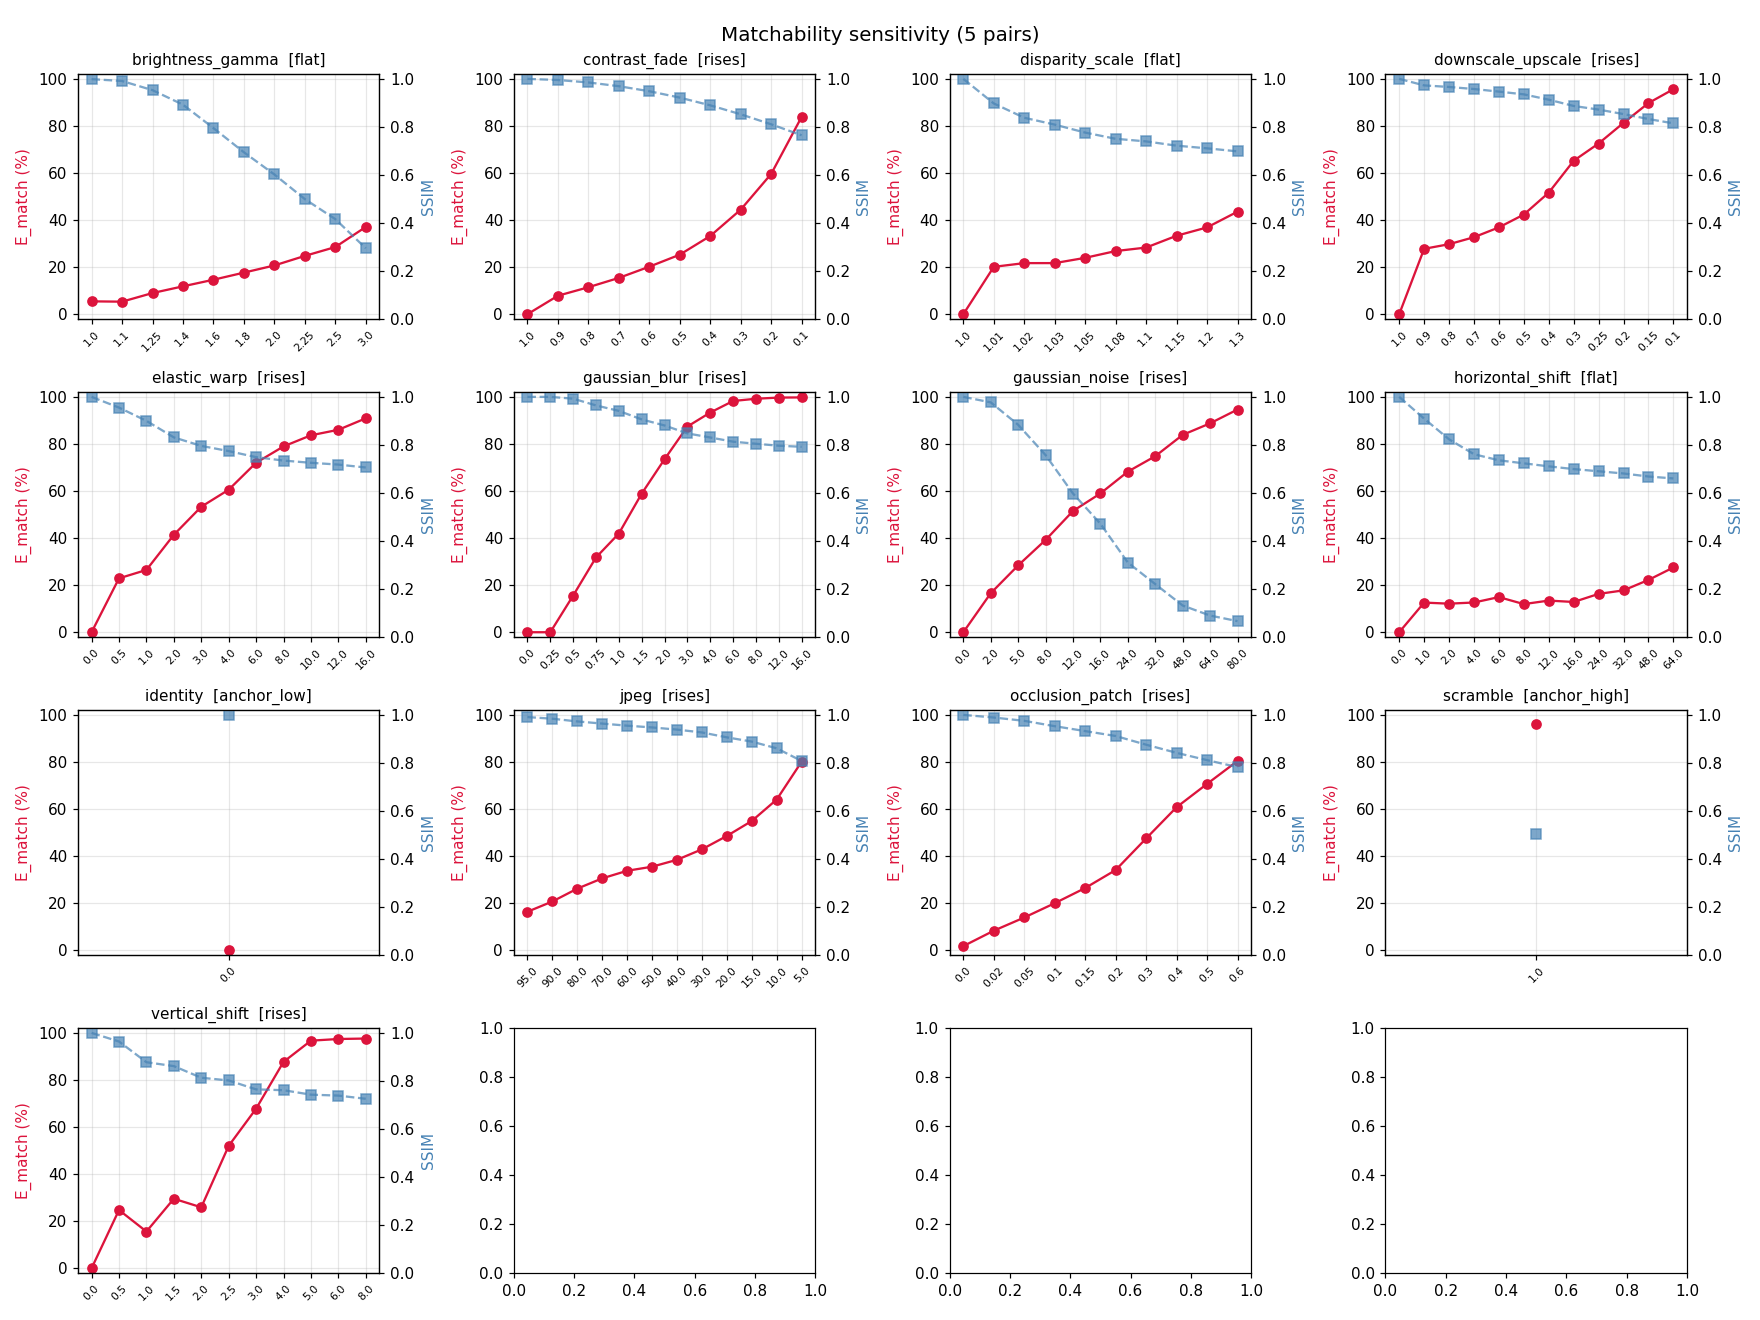
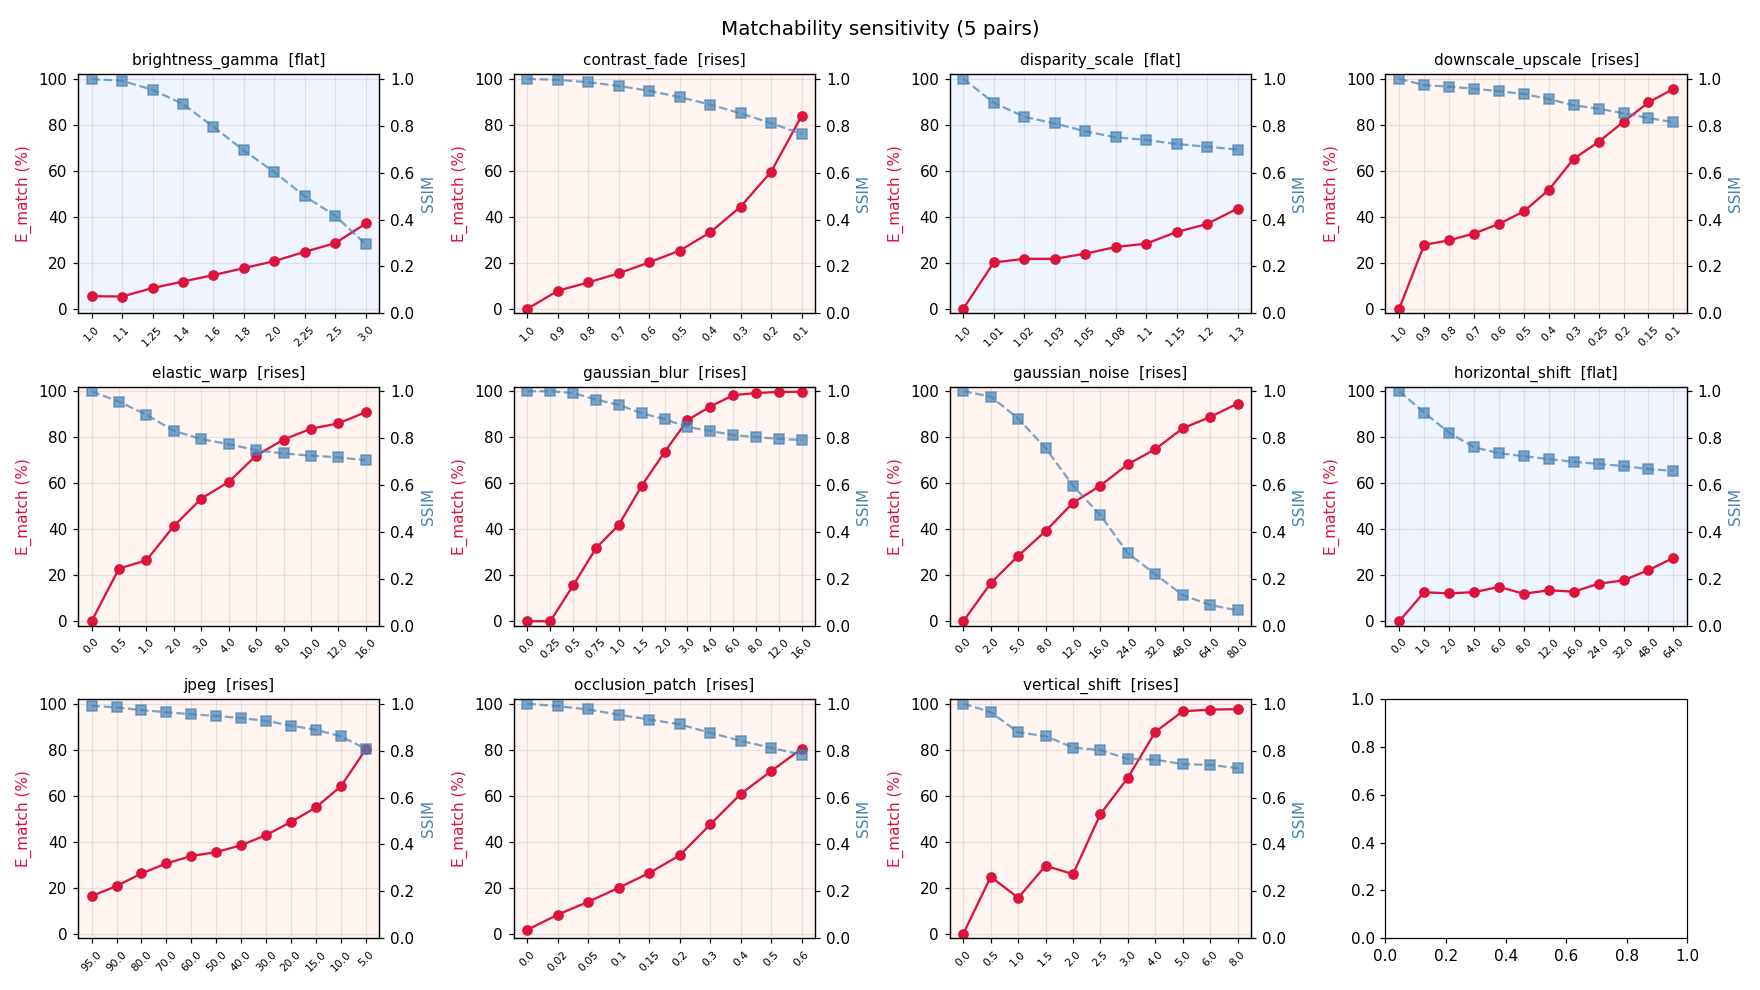
refactor: remove anchors from sensitivity study; group distortions by sensitivity
- distortions.py: sweep_distortions() now excludes anchors (identity/scramble)
  and returns flat-first then rises, so plots group insensitive before sensitive
- viz.py: subplots shaded blue (flat/insensitive) or red (rises/sensitive)
  in both plot_distortion_grid and plot_metric_comparison_grid
- run_sensitivity.py / plot_results.py: use sweep_distortions() as default;
  drop global-normalisation variant; output is now comparison.png (single)
- experiments/results: regenerated grids, updated summary.md, deleted
  comparison_global.png, comparison_sweep.png, matches_0001_identity.png
- README: grouped distortion catalogue and results table (flat / rises)

diff --git a/scripts/plot_results.py b/scripts/plot_results.py
@@ -42,10 +42,14 @@ def main(argv: list[str] | None = None) -> int:
     out = Path(args.out)
     out.mkdir(parents=True, exist_ok=True)
 
+    from matchability import distortions as D
     from matchability.report import aggregate, write_summary
     from matchability.viz import plot_distortion_grid, plot_metric_comparison_grid
 
     rows = load_csv(csv_path)
+    # Drop anchor distortions (identity / scramble) — single-point, PSNR=∞ degenerate cases.
+    sweep_names = set(D.sweep_distortions())
+    rows = [r for r in rows if r["distortion"] in sweep_names]
 
     # Parse numeric fields — CSV stores everything as strings.
     for row in rows:
@@ -69,15 +73,14 @@ def main(argv: list[str] | None = None) -> int:
     )
     print(f"wrote {grid_path}")
 
-    # 2) Three-metric comparison grids
-    for mode in ("sweep", "global"):
-        cmp_path = plot_metric_comparison_grid(
-            per,
-            out / f"comparison_{mode}.png",
-            normalize=mode,
-            title=f"E_match / 1−SSIM / 1−PSNR  ({mode} normalised, {n_pairs} pairs)",
-        )
-        print(f"wrote {cmp_path}")
+    # 2) Three-metric comparison grid (per-sweep normalised)
+    cmp_path = plot_metric_comparison_grid(
+        per,
+        out / "comparison.png",
+        normalize="sweep",
+        title=f"E_match / 1−SSIM / 1−PSNR  (per-sweep normalised, {n_pairs} pairs)",
+    )
+    print(f"wrote {cmp_path}")
 
     # 3) Markdown summary with PSNR column
     meta = (

diff --git a/scripts/run_sensitivity.py b/scripts/run_sensitivity.py
@@ -26,9 +26,9 @@ from matchability.report import aggregate, write_summary
 from matchability.types import MatchabilityResult
 from matchability.viz import draw_matches, plot_distortion_grid, plot_metric_comparison_grid
 
-# One representative severity per distortion rendered as a Fig-10-style overlay.
+# One representative severity per sweep distortion rendered as a Fig-10-style overlay.
+# Anchors (identity / scramble) are excluded — they're single-point degenerate cases.
 VIZ_TARGETS = {
-    "identity": 0.0,
     "gaussian_blur": 8.0,
     "gaussian_noise": 40.0,
     "jpeg": 5.0,
@@ -40,7 +40,6 @@ VIZ_TARGETS = {
     "disparity_scale": 1.2,
     "elastic_warp": 8.0,
     "occlusion_patch": 0.5,
-    "scramble": 1.0,
 }
 
 
@@ -104,7 +103,7 @@ def main(argv: list[str] | None = None) -> int:
     if not pairs:
         print("no stereo pairs found (run extract_frames.py first)")
         return 1
-    names = args.distortions or D.available()
+    names = args.distortions or D.sweep_distortions()
     matcher = build_matcher(args.backend, args.device)
     viz_stem = args.viz_video or pairs[0][0]
 
@@ -165,13 +164,12 @@ def main(argv: list[str] | None = None) -> int:
     per = aggregate(rows)
     grid_title = f"Matchability sensitivity ({args.backend}, {len(pairs)} pairs)"
     plot_distortion_grid(per, out / "sensitivity_grid.png", title=grid_title)
-    for mode in ("sweep", "global"):
-        plot_metric_comparison_grid(
-            per,
-            out / f"comparison_{mode}.png",
-            normalize=mode,
-            title=f"E_match / 1−SSIM / 1−PSNR  ({mode} normalised, {len(pairs)} pairs)",
-        )
+    plot_metric_comparison_grid(
+        per,
+        out / "comparison.png",
+        normalize="sweep",
+        title=f"E_match / 1−SSIM / 1−PSNR  (per-sweep normalised, {len(pairs)} pairs)",
+    )
     meta = (
         f"- backend: `{args.backend}`  ·  pairs: {len(pairs)}"
         f"  ·  resolution: {args.working_resolution}px"

diff --git a/src/matchability/viz.py b/src/matchability/viz.py
@@ -67,6 +67,14 @@ def draw_matches(
     return canvas
 
 
+_BG_FLAT = "#f0f4ff"   # light blue tint  — insensitive / flat group
+_BG_RISES = "#fff4f0"  # light red tint   — sensitive / rises group
+
+
+def _group_bg(trend: str) -> str:
+    return _BG_FLAT if trend == "flat" else _BG_RISES
+
+
 def plot_distortion_grid(
     per_distortion: Mapping[str, Mapping[str, Sequence]],
     out_path: str | Path,
@@ -77,7 +85,8 @@ def plot_distortion_grid(
     """Grid of ``E_match`` (%) vs severity per distortion, with an SSIM overlay.
 
     ``per_distortion[name]`` is a mapping with keys ``severities``, ``error`` and
-    optionally ``ssim`` and ``trend``.
+    optionally ``ssim`` and ``trend``.  Subplots are shaded blue (flat/insensitive)
+    or red (rises/sensitive) to make the grouping immediately visible.
     """
     import matplotlib
 
@@ -92,6 +101,8 @@ def plot_distortion_grid(
 
     for ax, name in zip(flat, names, strict=False):
         data = per_distortion[name]
+        trend = data.get("trend", "")
+        ax.set_facecolor(_group_bg(trend))
         x = list(range(len(data["error"])))
         ax.plot(x, [100 * e for e in data["error"]], "o-", color="crimson", label="E_match (%)")
         ax.set_ylim(-2, 102)
@@ -99,7 +110,6 @@ def plot_distortion_grid(
         ax.set_xticks(x)
         ax.set_xticklabels([str(s) for s in data["severities"]], rotation=45, fontsize=7)
         ax.grid(alpha=0.3)
-        trend = data.get("trend", "")
         ax.set_title(f"{name}  [{trend}]", fontsize=10)
         if data.get("ssim") is not None:
             ax2 = ax.twinx()
@@ -168,6 +178,8 @@ def plot_metric_comparison_grid(
 
     for ax, name in zip(flat, names, strict=False):
         d = per_distortion[name]
+        trend = d.get("trend", "")
+        ax.set_facecolor(_group_bg(trend))
         x = list(range(len(d["error"])))
         if ranges is not None:
             re, rs, rp = ranges["error"], ranges["ssim"], ranges["psnr"]
@@ -183,7 +195,7 @@ def plot_metric_comparison_grid(
         ax.set_xticks(x)
         ax.set_xticklabels([str(s) for s in d["severities"]], rotation=45, fontsize=7)
         ax.grid(alpha=0.3)
-        ax.set_title(f"{name}  [{d.get('trend', '')}]", fontsize=10)
+        ax.set_title(f"{name}  [{trend}]", fontsize=10)
 
     for ax in list(flat)[len(names) :]:
         ax.axis("off")

diff --git a/src/matchability/distortions.py b/src/matchability/distortions.py
@@ -71,6 +71,17 @@ def available() -> list[str]:
     return sorted(REGISTRY)
 
 
+def sweep_distortions() -> list[str]:
+    """Names of distortions suitable for a sensitivity sweep, grouped flat-first then rises.
+
+    Excludes anchors (identity / scramble) which are degenerate single-point cases.
+    Within each group distortions are alphabetically sorted.
+    """
+    flat = sorted(n for n, d in REGISTRY.items() if d.trend == "flat")
+    rises = sorted(n for n, d in REGISTRY.items() if d.trend == "rises")
+    return flat + rises
+
+
 def get(name: str) -> Distortion:
     return REGISTRY[name]
 

diff --git a/README.md b/README.md
@@ -106,39 +106,40 @@ changes — is what makes `E_match` a better proxy for stereo comfort than pixel
 
 ### Results
 
-E_match / 1-SSIM / 1-PSNR all min-max scaled and degradation-aligned (all curves rise with severity):
+E_match / 1-SSIM / 1-PSNR all min-max scaled per distortion and degradation-aligned (all curves rise with severity):
 
-![Per-sweep normalised comparison](experiments/results/comparison_sweep.png)
+![Comparison](experiments/results/comparison.png)
 
-*Crimson = E_match, steel-blue = 1−SSIM, sea-green = 1−PSNR (all normalised per-distortion so
-curves can be compared regardless of absolute scale). Notice the geometric distortions
-(horizontal_shift, disparity_scale) where SSIM/PSNR degrade but E_match stays flat.*
+*Crimson = E_match, steel-blue = 1−SSIM, sea-green = 1−PSNR (normalised per-distortion so
+curves can be compared regardless of absolute scale). Geometric distortions
+(horizontal_shift, disparity_scale) show SSIM/PSNR degrading while E_match stays flat.*
 
-The same view globally normalised across all distortions (showing absolute sensitivity):
-
-![Globally normalised comparison](experiments/results/comparison_global.png)
-
-The classic distortion grid (E_match % + SSIM, no normalisation):
+The raw E_match % + SSIM grid:
 
 ![Matchability sensitivity across distortions](experiments/results/sensitivity_grid.png)
 
 ### Distortion catalogue
 
-| Distortion | Family | Expected trend | What it tests |
-| --- | --- | --- | --- |
-| `identity` | anchor | `anchor_low` (≈0%) | Baseline: identical views → near-zero error |
-| `scramble` | anchor | `anchor_high` (≈96%) | Worst case: random pixel shuffle → no matches |
-| `gaussian_blur` | texture | rises sharply | Over-smoothing destroys keypoint texture |
-| `gaussian_noise` | texture | rises | Salt-and-pepper pattern disrupts descriptors |
-| `jpeg` | texture | rises | Compression artefacts bleed into descriptors |
-| `downscale_upscale` | texture | rises | Bicubic downsample + upsample loses HF texture |
-| `contrast_fade` | texture | rises | Low-contrast regions become ambiguous to match |
-| `horizontal_shift` | geometric | flat | Pure horizontal disparity offset — DeDoDe invariant |
-| `disparity_scale` | geometric | flat | Horizontal stretch (wrong stereo strength) — geometry only |
-| `vertical_shift` | geometric | rises | Breaks epipolar (|Δy| > τ) — matches filtered out |
-| `elastic_warp` | geometric | rises | Smooth spatial warp that disrupts both descriptor and geometry |
-| `brightness_gamma` | photometric | flat | Global tone curve — DeDoDe descriptors are robust |
-| `occlusion_patch` | structural | rises ∝ area | Black patch simulates disocclusion; error ∝ occluded fraction |
+**Insensitive (flat) — E_match should stay low despite pixel-level degradation:**
+
+| Distortion | Family | What it tests |
+| --- | --- | --- |
+| `brightness_gamma` | photometric | Global tone curve — DeDoDe descriptors are robust to exposure changes |
+| `disparity_scale` | geometric | Horizontal stretch (wrong stereo strength) — only geometry, not texture |
+| `horizontal_shift` | geometric | Pure horizontal disparity offset — DeDoDe is translation-invariant |
+
+**Sensitive (rises) — E_match should rise with severity:**
+
+| Distortion | Family | What it tests |
+| --- | --- | --- |
+| `contrast_fade` | texture | Low-contrast regions become ambiguous to match |
+| `downscale_upscale` | texture | Bicubic downsample + upsample loses high-frequency texture |
+| `elastic_warp` | geometric | Smooth spatial warp disrupts both descriptor and epipolar geometry |
+| `gaussian_blur` | texture | Over-smoothing destroys keypoint texture |
+| `gaussian_noise` | texture | Salt-and-pepper pattern disrupts descriptors |
+| `jpeg` | texture | Compression artefacts bleed into descriptors |
+| `occlusion_patch` | structural | Black patch simulates disocclusion; error ∝ occluded fraction |
+| `vertical_shift` | geometric | Breaks epipolar consistency (|Δy| > τ) — matches filtered out |
 
 ### Match overlays (video 0001)
 
@@ -162,26 +163,26 @@ Full numbers (DeDoDe v2, 5 pairs, 768 px, τ=2px):
 
 | Distortion | Expected | `E_match` min → max | SSIM min → max | PSNR(dB) min → max |
 | --- | --- | --- | --- | --- |
-| identity | anchor_low | 0.0% → 0.0% | 1.00 → 1.00 | 100 → 100 |
-| scramble | anchor_high | 96.2% → 96.2% | 0.50 → 0.50 | 12.0 → 12.0 |
+| **insensitive (flat)** | | | | |
+| brightness_gamma | flat | 5.5% → 37.1% | 1.00 → 0.29 | 57.0 → 10.7 |
+| disparity_scale | flat | 0.0% → 43.5% | 1.00 → 0.70 | 100 → 18.6 |
+| horizontal_shift | flat | 0.0% → 27.5% | 1.00 → 0.66 | 100 → 16.8 |
+| **sensitive (rises)** | | | | |
+| contrast_fade | rises | 0.0% → 83.8% | 1.00 → 0.76 | 100 → 15.7 |
+| downscale_upscale | rises | 0.0% → 95.6% | 1.00 → 0.81 | 100 → 28.5 |
+| elastic_warp | rises | 0.0% → 90.8% | 1.00 → 0.71 | 100 → 21.1 |
 | gaussian_blur | rises | 0.0% → 99.7% | 1.00 → 0.79 | 100 → 25.0 |
 | gaussian_noise | rises | 0.0% → 94.6% | 1.00 → 0.07 | 100 → 11.6 |
 | jpeg | rises | 16.4% → 80.1% | 0.99 → 0.81 | 44.7 → 26.7 |
-| downscale_upscale | rises | 0.0% → 95.6% | 1.00 → 0.81 | 100 → 28.5 |
-| contrast_fade | rises | 0.0% → 83.8% | 1.00 → 0.76 | 100 → 15.7 |
-| horizontal_shift | flat | 0.0% → 27.5% | 1.00 → 0.66 | 100 → 16.8 |
-| disparity_scale | flat | 0.0% → 43.5% | 1.00 → 0.70 | 100 → 18.6 |
-| vertical_shift | rises | 0.0% → 97.6% | 1.00 → 0.73 | 100 → 23.9 |
-| elastic_warp | rises | 0.0% → 90.8% | 1.00 → 0.71 | 100 → 21.1 |
-| brightness_gamma | flat | 5.5% → 37.1% | 1.00 → 0.29 | 57.0 → 10.7 |
 | occlusion_patch | rises | 1.8% → 80.4% | 1.00 → 0.78 | 69.3 → 15.9 |
+| vertical_shift | rises | 0.0% → 97.6% | 1.00 → 0.73 | 100 → 23.9 |
 
 To reproduce the study from scratch:
 
 ```bash
 python scripts/extract_frames.py --input-dir data/raw --output-dir data/frames
 python scripts/run_sensitivity.py --backend dedode --working-resolution 768
-# -> experiments/results/{sensitivity_grid.png, comparison_{sweep,global}.png,
+# -> experiments/results/{sensitivity_grid.png, comparison.png,
 #                          sensitivity.csv, summary.md, matches_*.png}
 ```
 
@@ -189,7 +190,7 @@ To regenerate only plots from an existing CSV (no DeDoDe sweep):
 
 ```bash
 python scripts/plot_results.py
-# -> sensitivity_grid.png, comparison_{sweep,global}.png, summary.md (reads sensitivity.csv)
+# -> sensitivity_grid.png, comparison.png, summary.md  (reads sensitivity.csv)
 ```
 
 ## Development

diff --git a/experiments/results/summary.md b/experiments/results/summary.md
@@ -13,8 +13,6 @@
 | gaussian_blur | rises | 0.0% → 99.7% | 1.00 → 0.79 | 100.0 → 25.0 |
 | gaussian_noise | rises | 0.0% → 94.6% | 1.00 → 0.07 | 100.0 → 11.6 |
 | horizontal_shift | flat | 0.0% → 27.5% | 1.00 → 0.66 | 100.0 → 16.8 |
-| identity | anchor_low | 0.0% → 0.0% | 1.00 → 1.00 | 100.0 → 100.0 |
 | jpeg | rises | 16.4% → 80.1% | 0.99 → 0.81 | 44.7 → 26.7 |
 | occlusion_patch | rises | 1.8% → 80.4% | 1.00 → 0.78 | 69.3 → 15.9 |
-| scramble | anchor_high | 96.2% → 96.2% | 0.50 → 0.50 | 12.0 → 12.0 |
 | vertical_shift | rises | 0.0% → 97.6% | 1.00 → 0.73 | 100.0 → 23.9 |